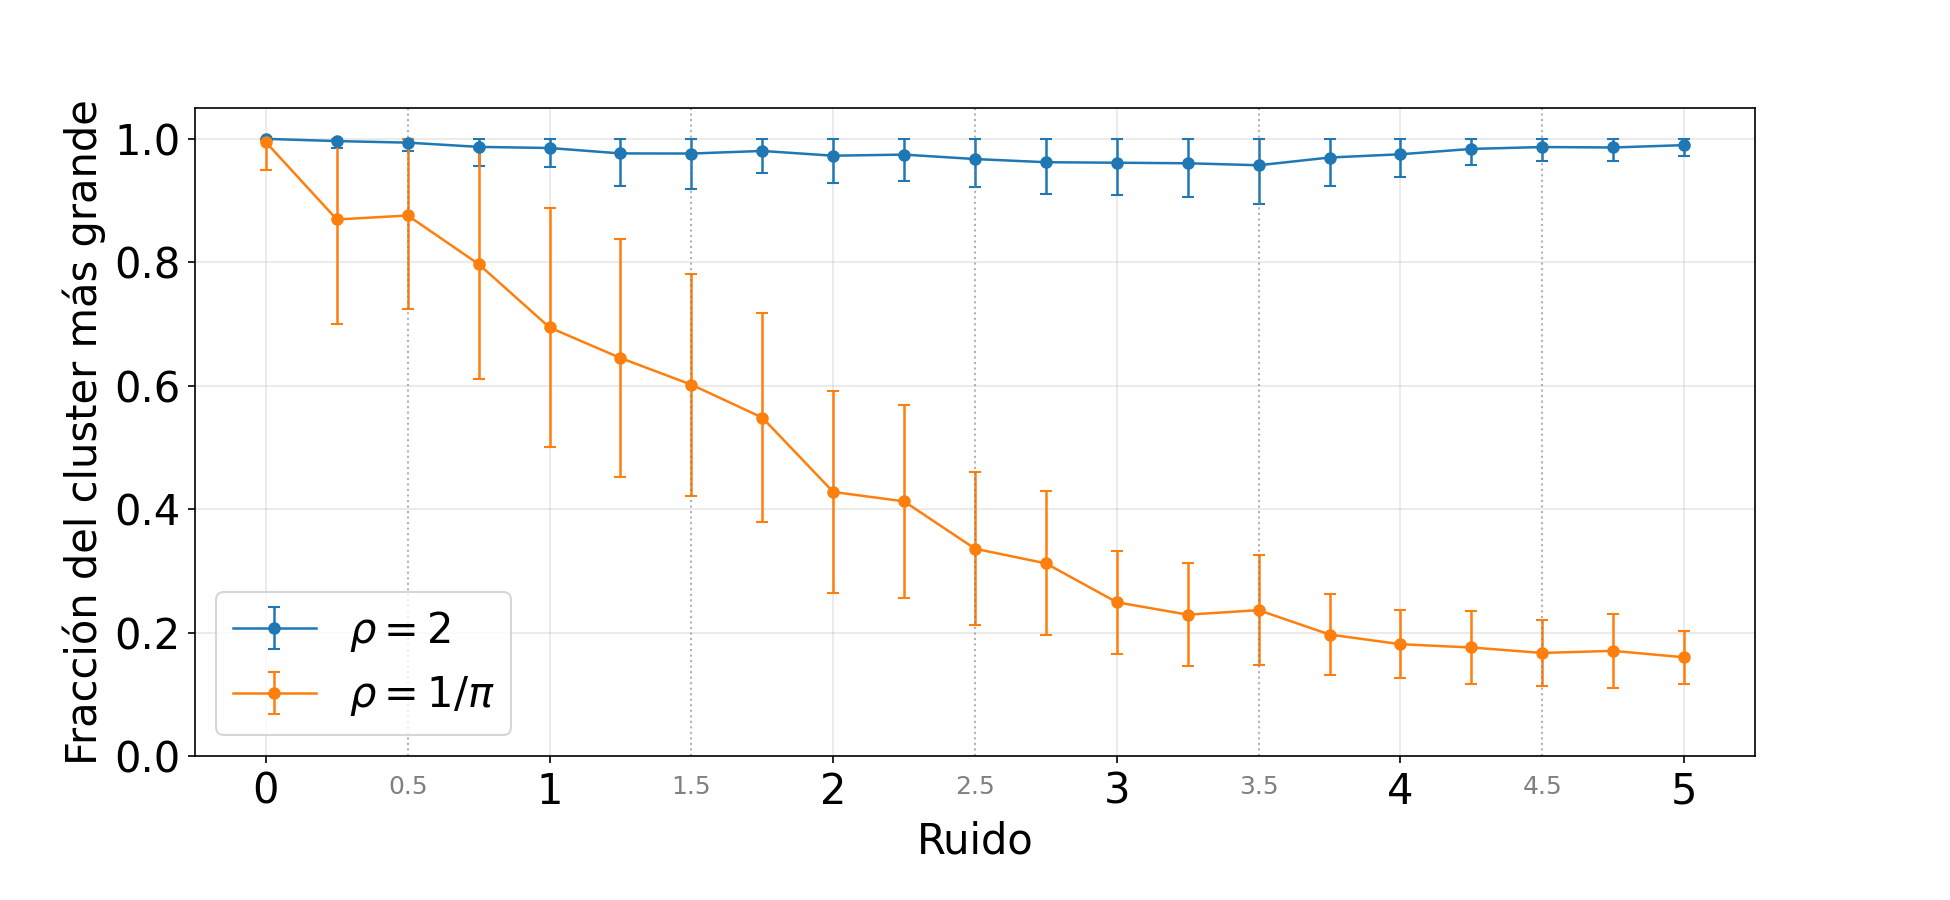
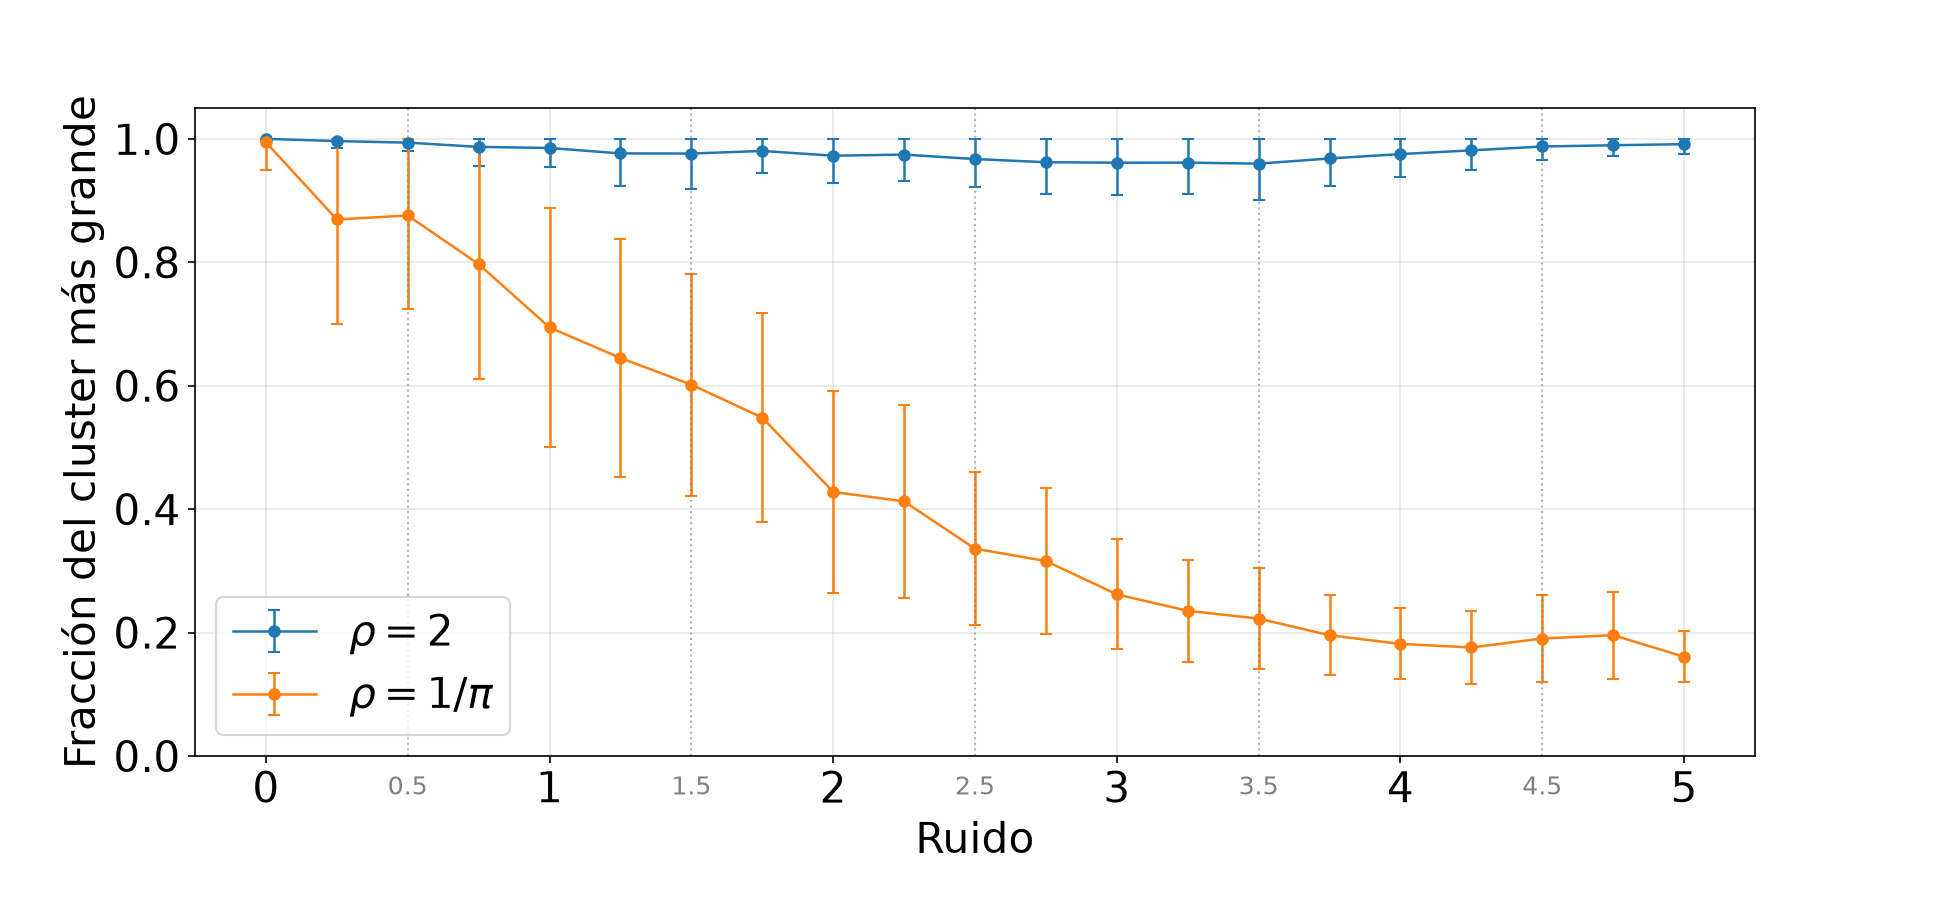
new plots for observables

diff --git a/python/plot/new/clusters_vs_eta.py b/python/plot/new/clusters_vs_eta.py
@@ -71,9 +71,13 @@ def graficar(directorios, modelo, archivo_salida=None):
             label=f"$\\rho={etiqueta_densidad(densidad_de_directorio(directorio))}$",
         )
 
-    if modelo == "standard":
+    refs = {
+        "standard": (0.5, 1.5, 2.5, 3.5, 4.5),
+        "voter": (0.1, 0.3, 0.5, 0.7, 0.9),
+    }.get(modelo)
+    if refs:
         trans = ax.get_xaxis_transform()
-        for eta_ref in (0.5, 1.5, 2.5, 3.5, 4.5):
+        for eta_ref in refs:
             ax.axvline(eta_ref, color="gray", linestyle=":", linewidth=1, alpha=0.6)
             ax.text(eta_ref, -0.03, str(eta_ref), transform=trans, ha="center", va="top",
                     fontsize=FUENTE - 8, color="gray")
